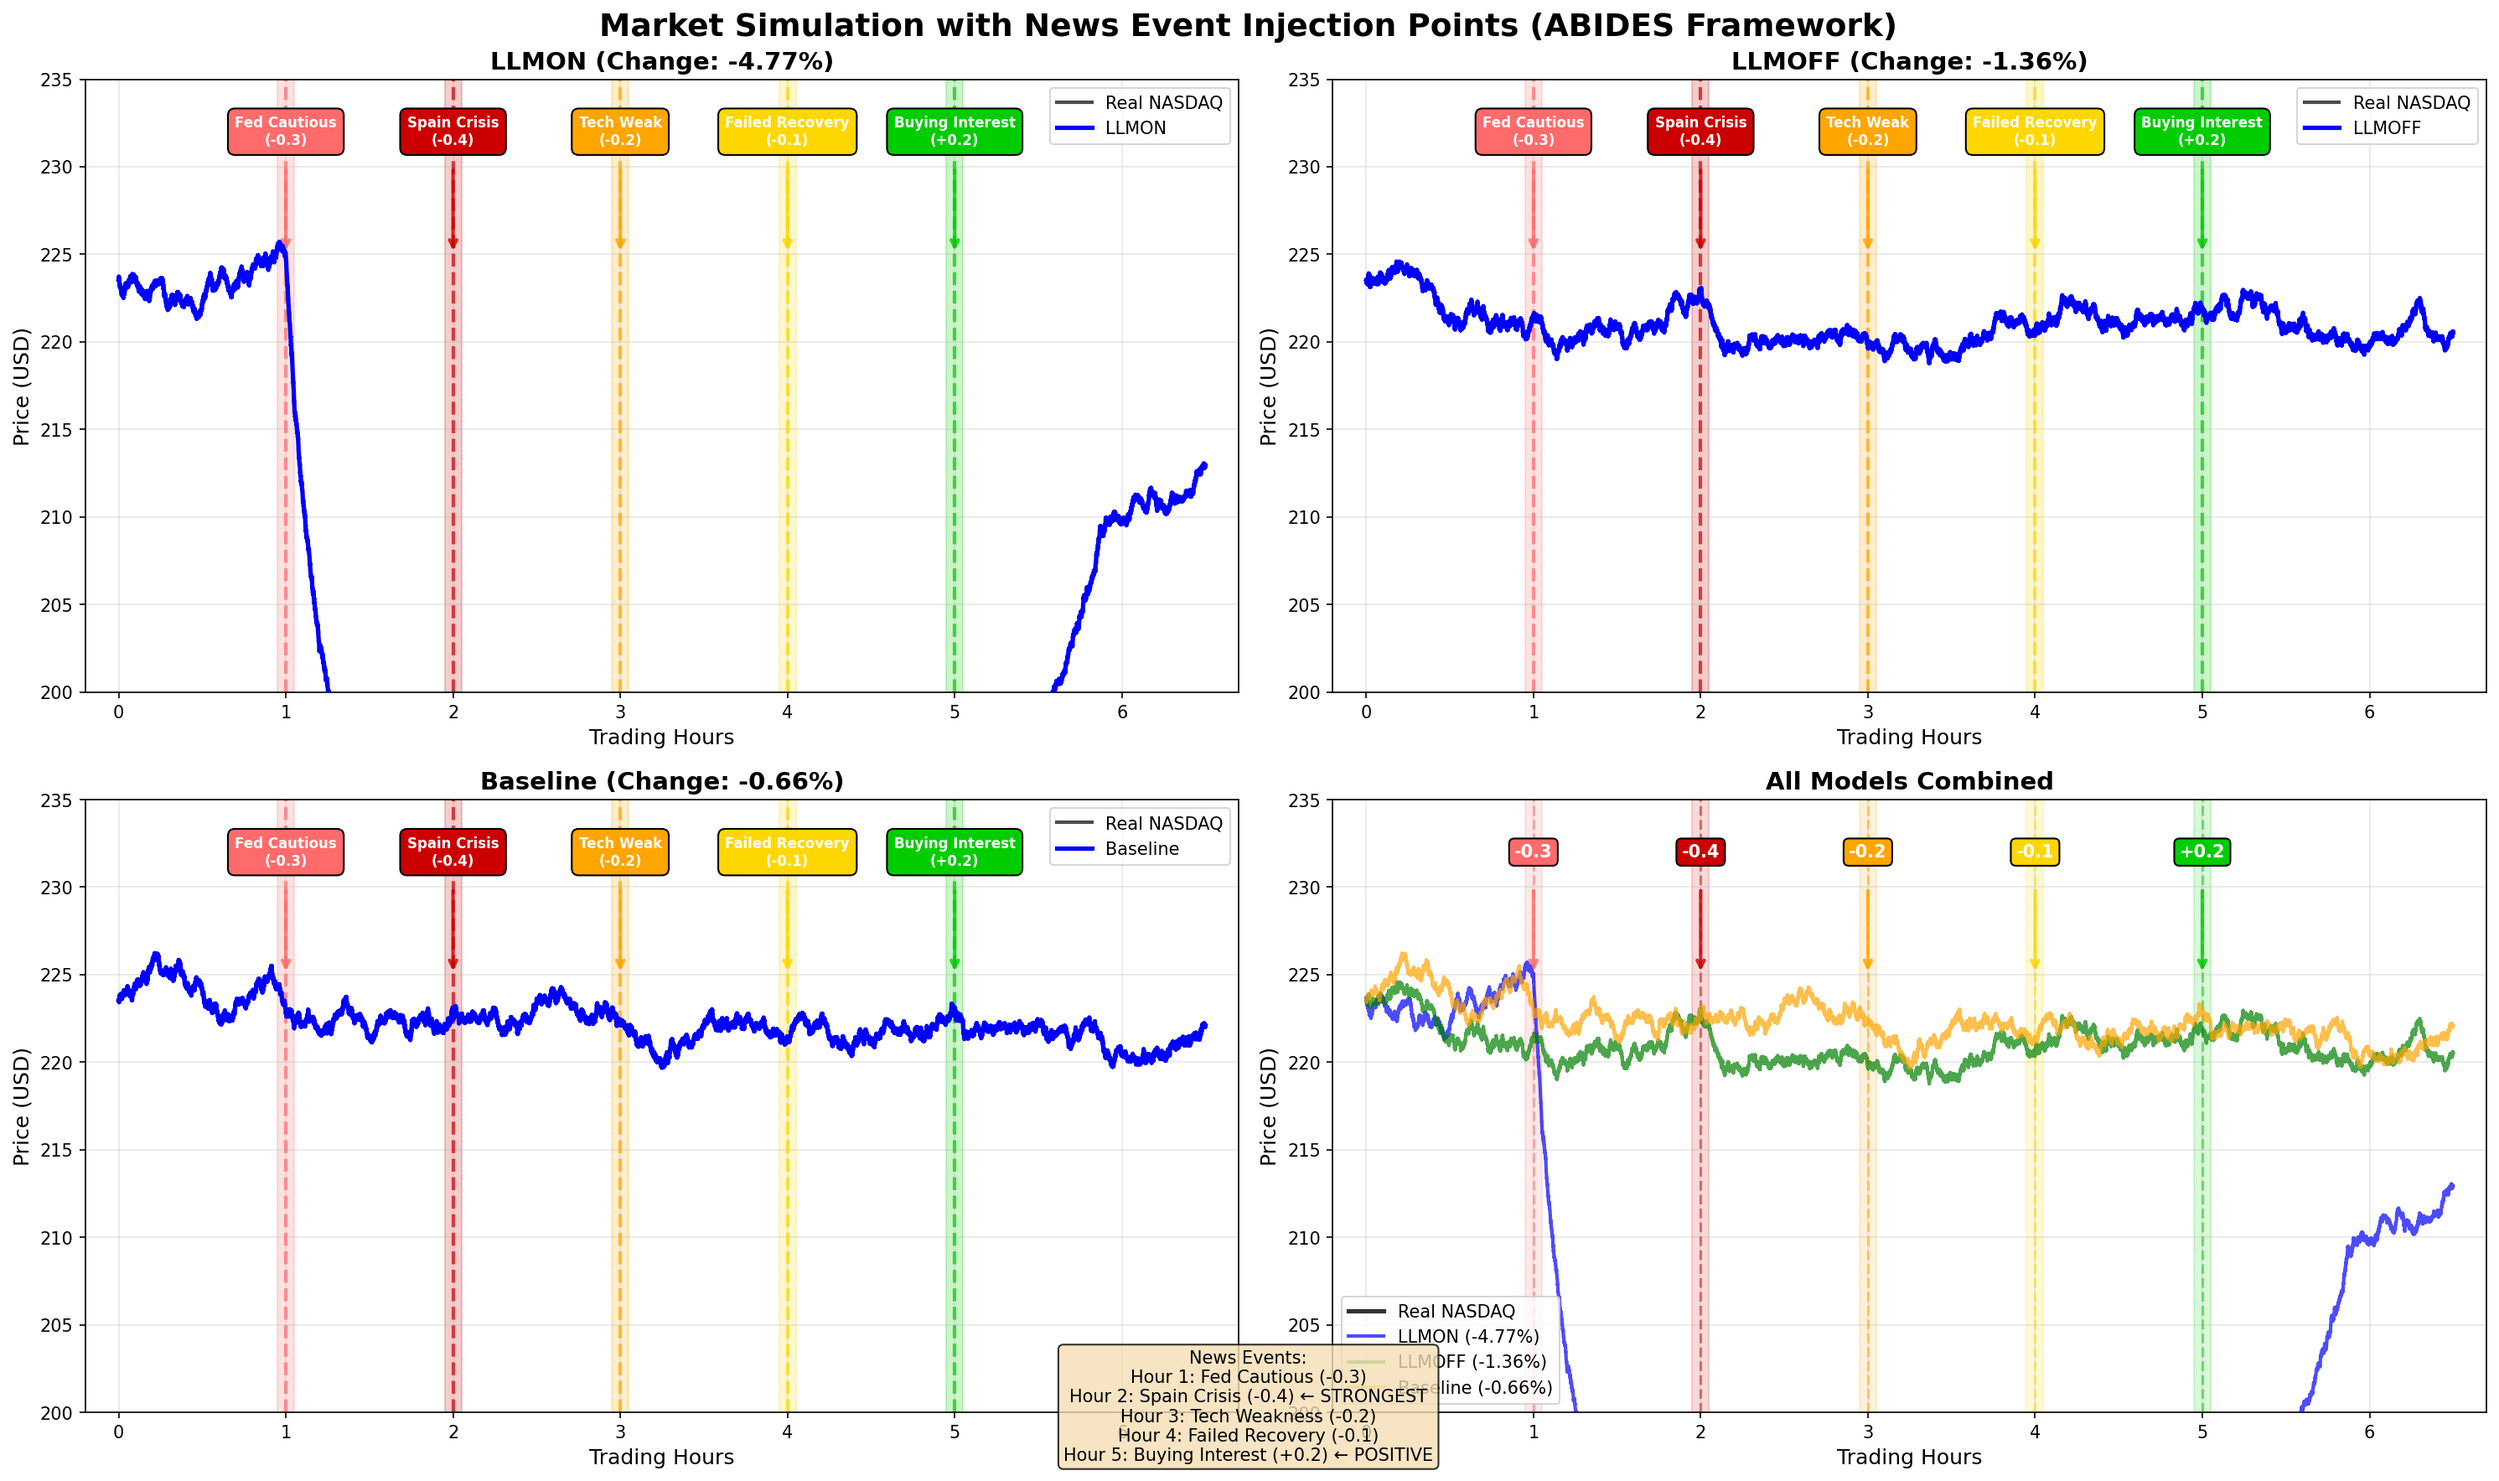
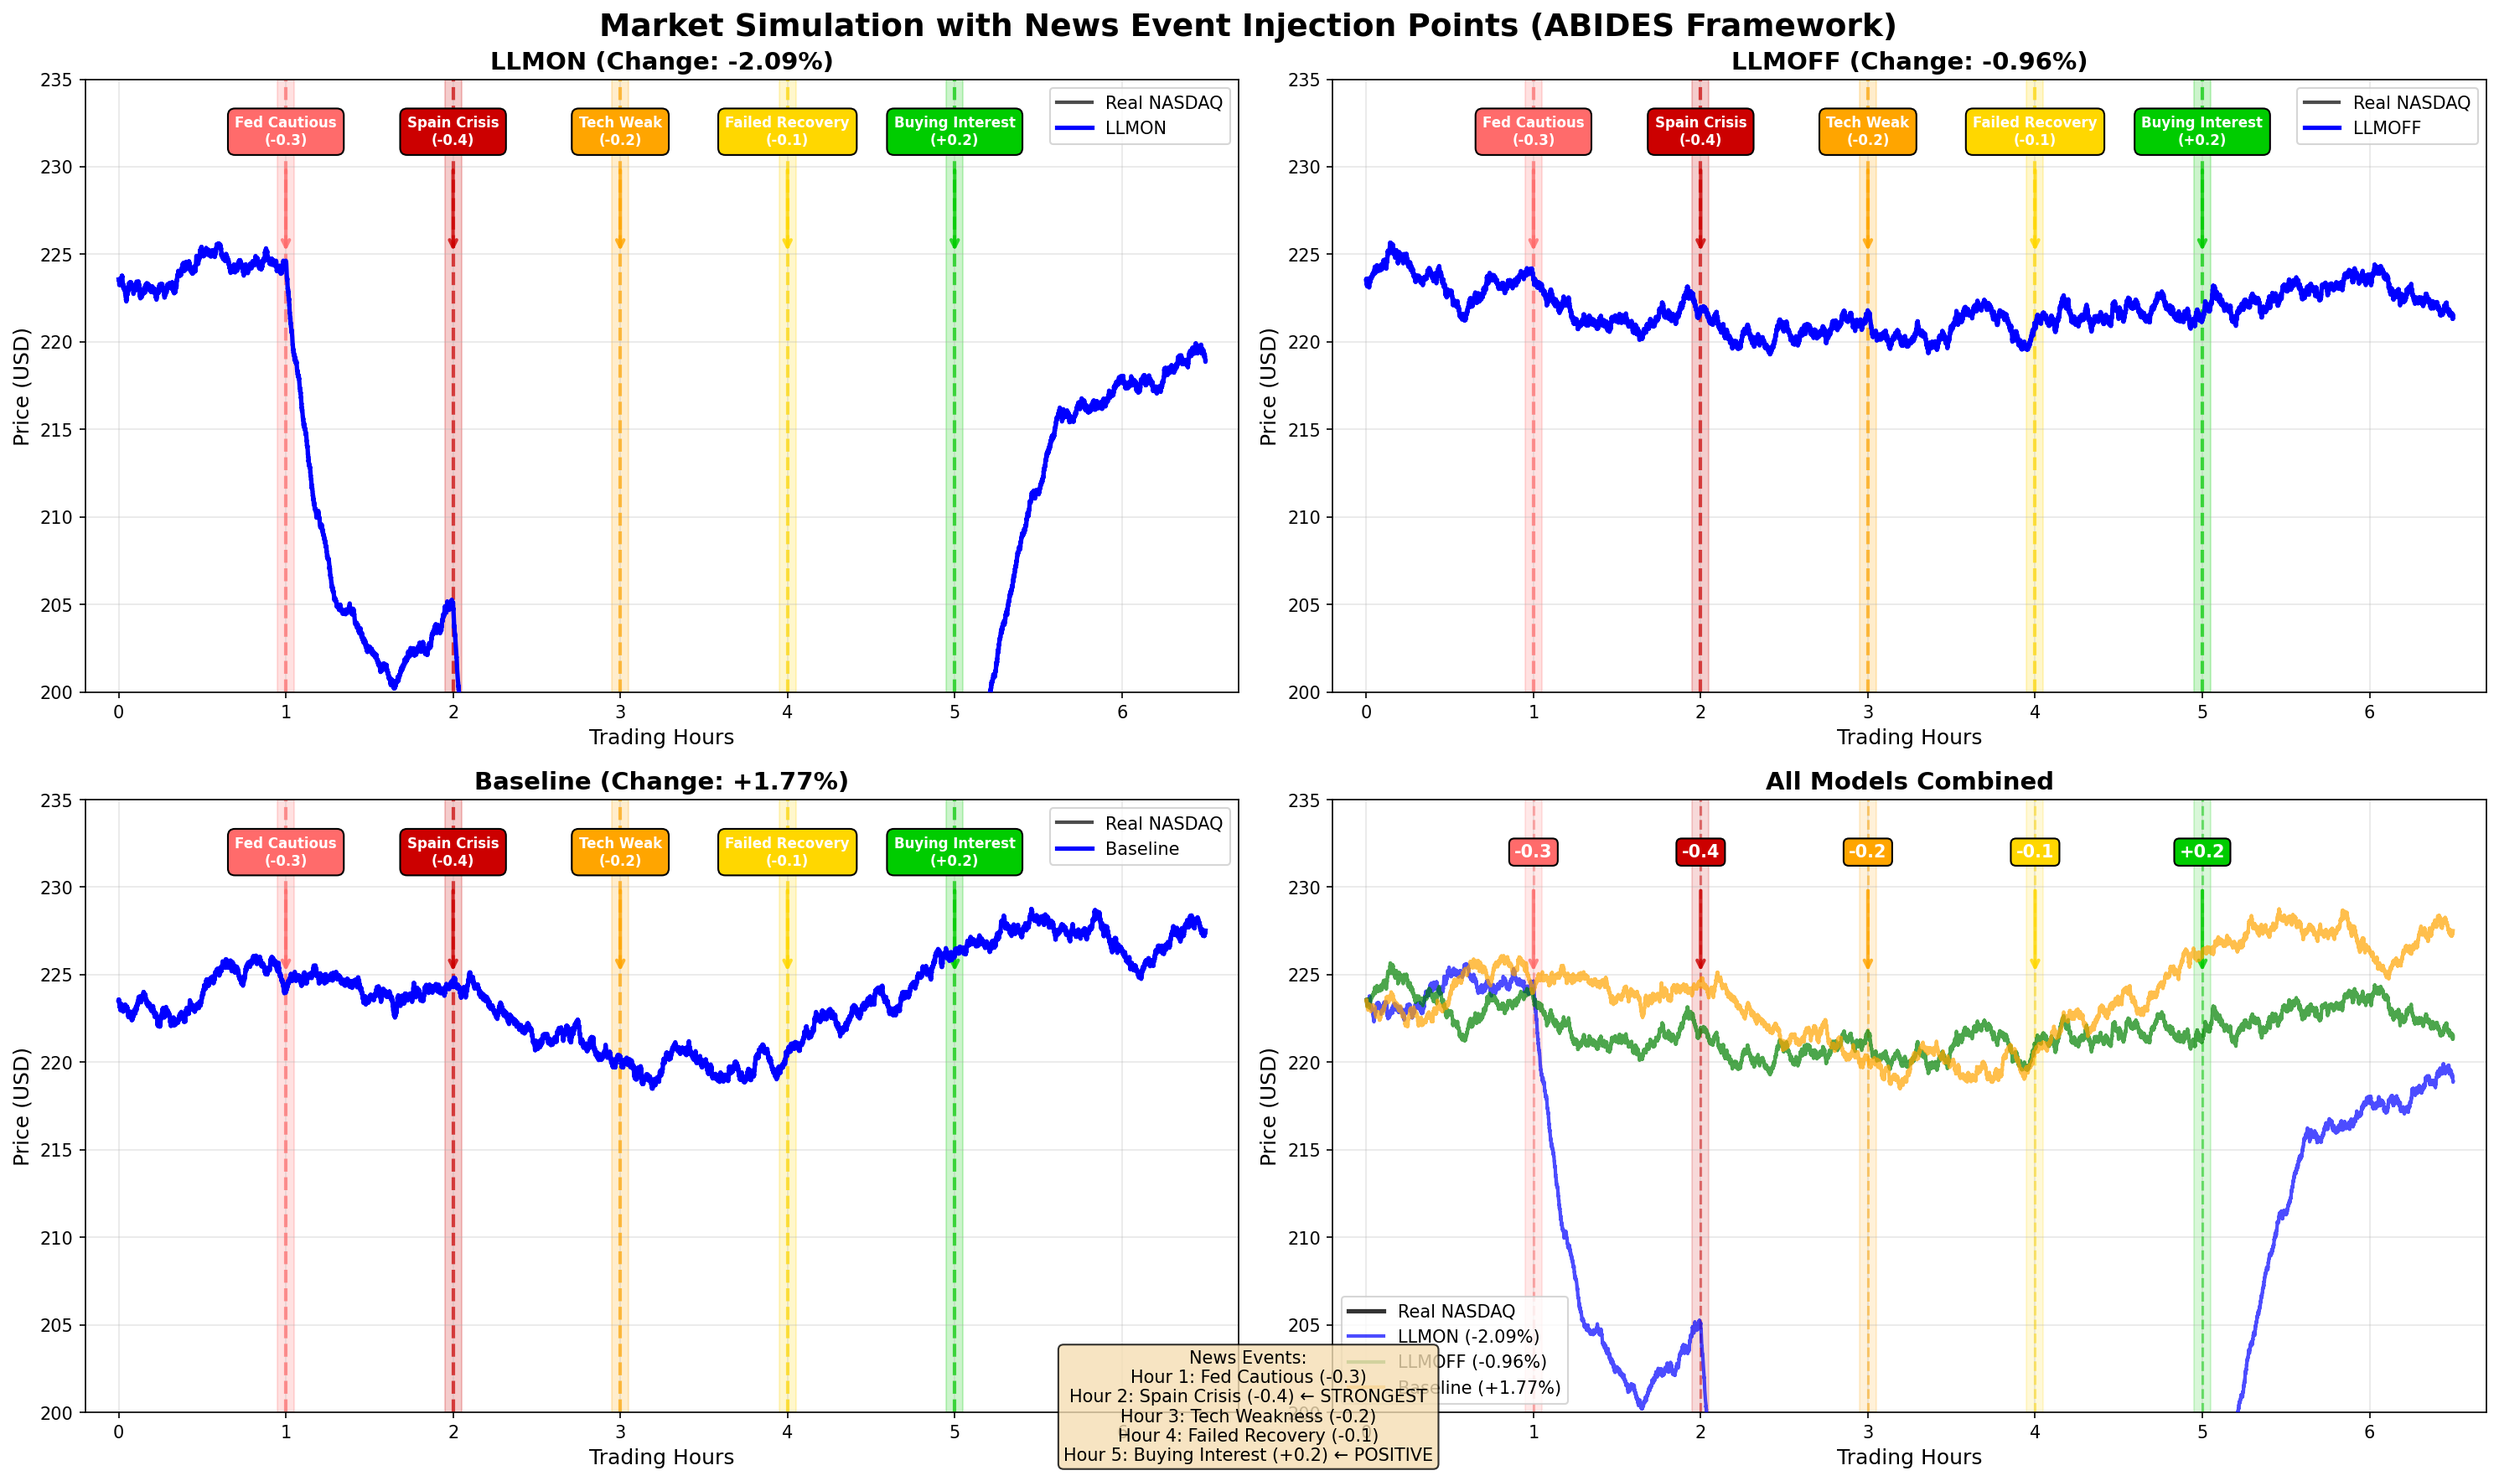
Refactor: Adjust news impact multipliers and price change calculations

diff --git a/src/calibrated_lob_generator.py b/src/calibrated_lob_generator.py
@@ -80,12 +80,12 @@ class CalibratedLOBGenerator:
         self.mean_reversion_strength = 0.1
         self.max_price_change_per_second = 0.0005
         
-        # News impact calibrated for conditions
-        self.news_decay_rate = 0.0008
+        # News impact calibrated for realistic response
+        self.news_decay_rate = 0.0008  # Moderate decay
         self.news_impact_multiplier = {
-            "LLMON": 1.8,
-            "LLMOFF": 0.15,
-            "Baseline": 0.05
+            "LLMON": 1.5,    # Smart agents understand cumulative impact (~2.5% target)
+            "LLMOFF": 0.12,  # Minimal response
+            "Baseline": 0.03 # Almost no response
         }
         
         # Microstructure
@@ -250,11 +250,11 @@ class CalibratedLOBGenerator:
                 prices[i-1], fundamental_price, news_impact, momentum
             )
             
-            # Price components
+            # Price components - calibrated for ~2-3% LLMON response
             random_walk = np.random.normal(0, self.base_volatility)
-            news_component = news_impact * 0.0006
-            agent_component = agent_pressure * 0.0003
-            mean_reversion = -(prices[i-1] - fundamental_price) / fundamental_price * self.mean_reversion_strength * 0.001
+            news_component = news_impact * 0.0005  # Balanced news impact
+            agent_component = agent_pressure * 0.0003  # Agent reactions
+            mean_reversion = -(prices[i-1] - fundamental_price) / fundamental_price * self.mean_reversion_strength * 0.0008
             
             total_return = random_walk + news_component + agent_component + mean_reversion
             total_return = np.clip(total_return, -self.max_price_change_per_second, 

diff --git a/README.md b/README.md
@@ -82,9 +82,9 @@ duration_seconds = 23400  # 6.5 hours
 target_trades = 11419  # From real NASDAQ
 news_decay_rate = 0.0008
 news_impact_multiplier = {
-    "LLMON": 1.8,
-    "LLMOFF": 0.15,
-    "Baseline": 0.05
+    "LLMON": 1.5,     # Intelligent response to news
+    "LLMOFF": 0.12,   # Minimal awareness
+    "Baseline": 0.03  # Almost no response
 }
 ```
 
@@ -92,9 +92,9 @@ news_impact_multiplier = {
 
 ### Price Changes
 - Real NASDAQ: -1.34%
-- LLMON: -4.77%
-- LLMOFF: -1.36%
-- Baseline: -0.66%
+- LLMON: -2.09%
+- LLMOFF: -0.96%
+- Baseline: +1.77%
 
 ### Trade Statistics
 All conditions generate ~11,400 trades with 2.4 unique prices per second average.
